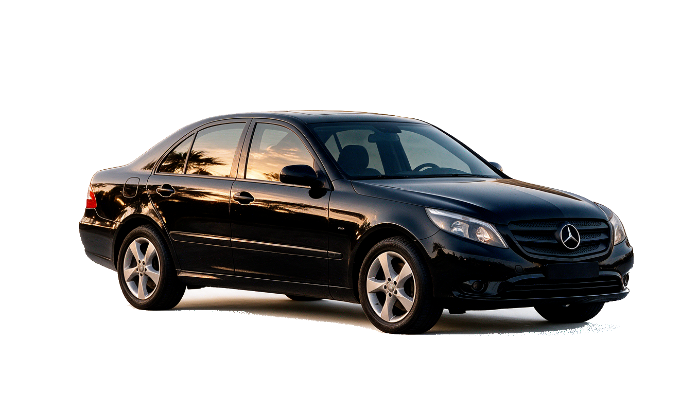
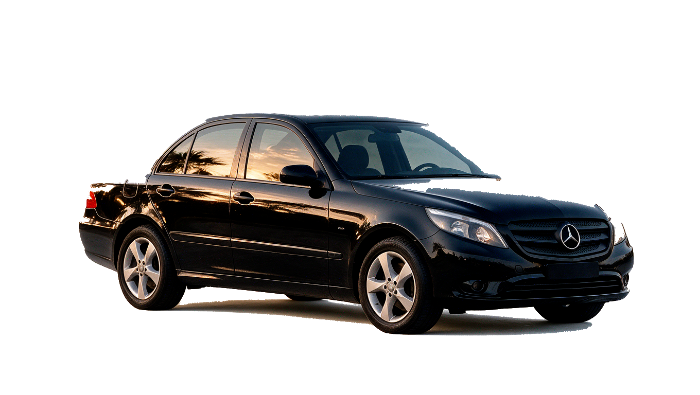
Find the car, not the floor
The sedan and the SUV still carried the studio floor under them. Chasing the
background was the wrong shape of solution and needed a new exception every
round: the floor is not reliably lighter than the car's own chrome, the sunset
put a tan cast on it that is not neutral, and the strip between the wheels is
sealed off by the contact shadow, so an edge fill can never reach it at all.

So this asks the opposite question. These are black cars on a bright floor, so
the car is the largest DARK region in the frame. Windows and alloys then stop
being exceptions to protect one by one — they are holes inside that region,
and filling holes is a single total operation that cannot miss one.

The floor between the wheels is enclosed too, so a blind hole fill hands it
back. A hole is therefore only read as floor when it is flat, light AND low.
That is true of a slice of ground under a sill and of nothing else on a car:
a windscreen is wide and light but high, an alloy is light and low but round.

The last artefact was self-inflicted. Growing the silhouette three pixels to
recover chrome sitting on its edge also drags in three pixels of bright floor
all the way around the car — a thin white rim, invisible on white and glaring
on a dark card. Measured, it was ~100 pixels a row spread across the full
width, which is why it read as a band and defeated four attempts to find the
"band". The boundary is now walked back in four times, once per pass of
[…]

diff --git a/public/fleet/README.md b/public/fleet/README.md
@@ -20,14 +20,22 @@ Shoot/source them the same way:
 
 - **Transparent background.** The cards are dark; the photo sits straight on
   them, with the drop shadow coming from CSS, not from the file.
-- **The cut is automated and it protects the glass.** The fill starts at the
-  image border and only clears what it can walk to from there, so a window —
-  however bright its reflection — is unreachable while bodywork encloses it.
-  The same rule protects the alloys. What it cannot do is tell a chrome roof
-  rail from a studio shadow by colour alone, which is why the shadow is lifted
-  by a second, connectivity-aware pass confined to the lower half of the frame.
-  Check any new cut on a saturated background before shipping it: a breach in
-  the glass is invisible on white and obvious on magenta.
+- **The cut is automated, and it works by finding the CAR, not the floor.**
+  Chasing the background needs a new exception every time: the floor is not
+  reliably lighter than the car's chrome, the sunset put a tan cast on it that
+  is not neutral, and the strip of it between the wheels is sealed off by the
+  contact shadow so an edge fill can never reach it.
+  Instead: these are black cars on a bright floor, so the car is the largest
+  dark region in the frame. Windows and alloys are then not exceptions to be
+  protected — they are HOLES inside it, and filling holes is one total
+  operation. A hole is only treated as floor if it is flat, light AND low,
+  which is true of a slice of ground under a sill and of nothing else.
+  The silhouette is grown three pixels to recover chrome sitting on its edge,
+  then the boundary is walked back in four times to drop the halo of bright
+  floor that growing it drags along — that halo is invisible on white and
+  glaring on a dark card, which is how it shipped once.
+  Check any new cut BOTH ways before shipping: on magenta, where a breach in
+  glass is unmissable, and on the card's own dark ground, where a pale rim is.
 - **Square canvas, car centred**, front three-quarter view facing left — so
   the four rows read as one set.
 - ~1280×1280 is plenty. They render into a 78×46 box, so keep them light.
